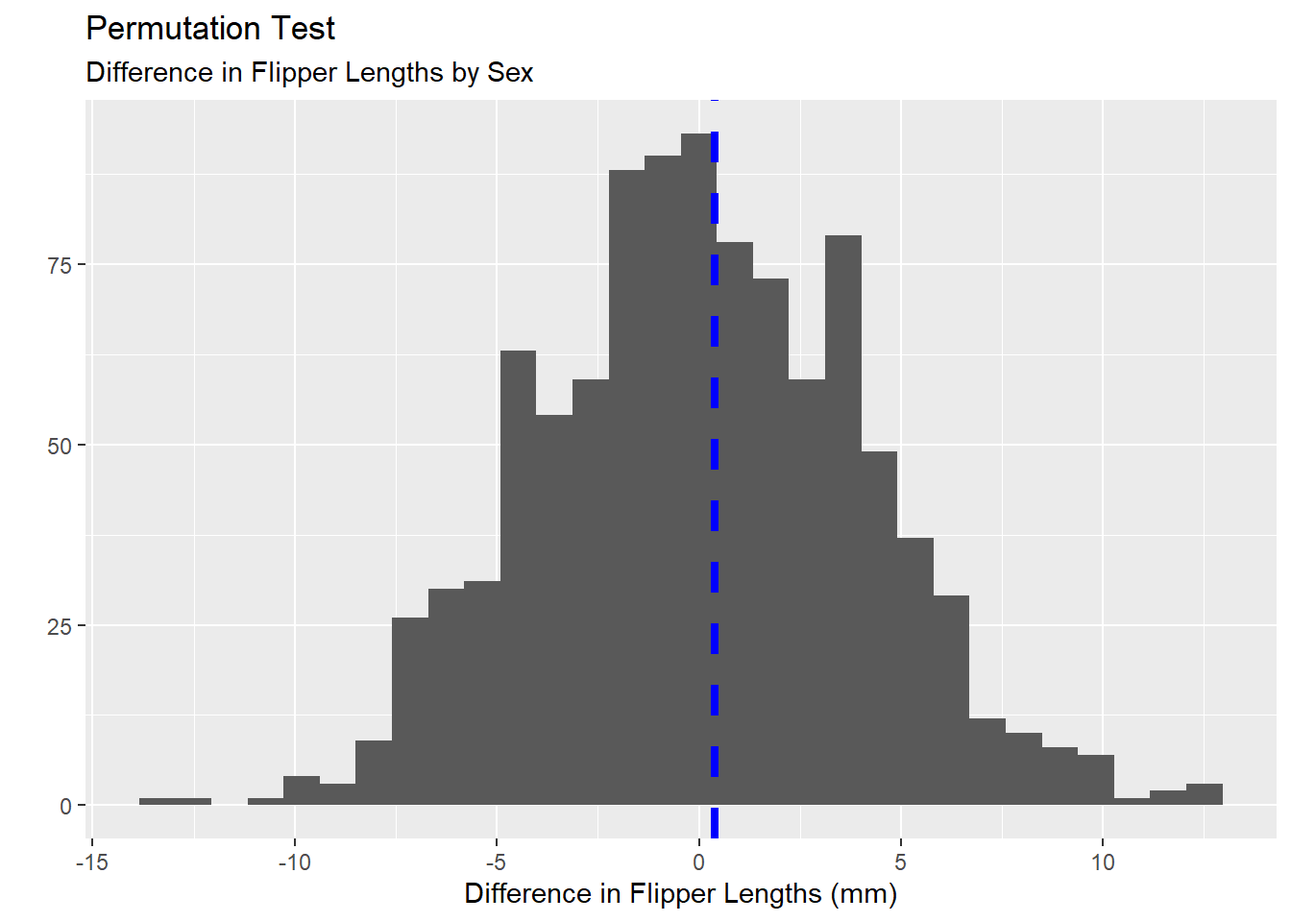
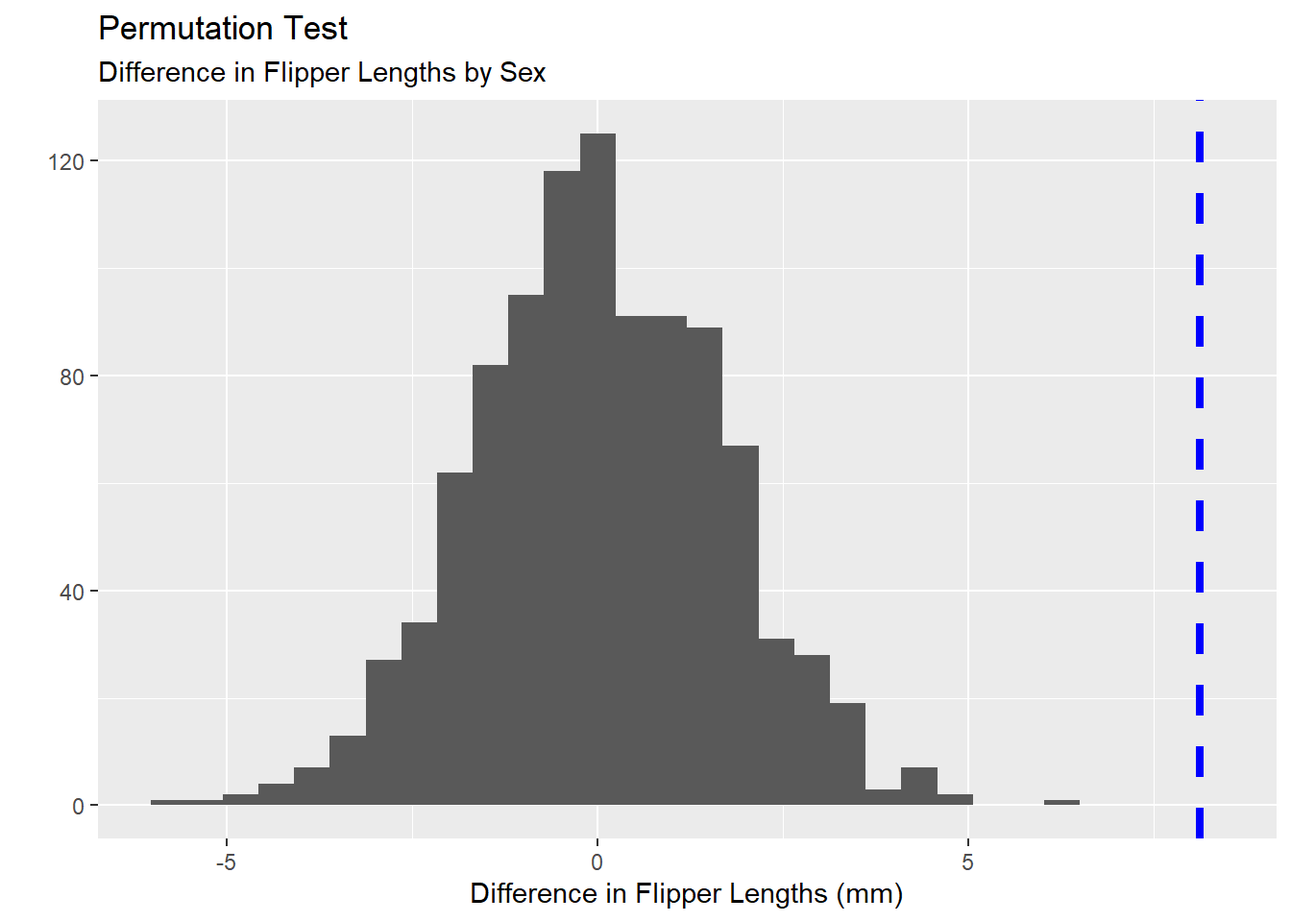
Updated the inference notebook to use penguins_samp2

diff --git a/ClassicalInferenceAndSimulationBasedInference.html b/ClassicalInferenceAndSimulationBasedInference.html
@@ -133,7 +133,7 @@ code span.wa { color: #60a0b0; font-weight: bold; font-style: italic; } /* Warni
 
 </header>
 
-<p><strong>Objectives:</strong></p>
+<p><strong>Objectives:</strong> In this notebook we’ll be reminded of classical inference techniques built on the Central Limit Theorem. We’ll also address bootstrapping methods and how statistical inference can still be made from data even if we refuse to assume the Central Limit Theorem. We’ll attempt some statistical inferences using these bootstrapping techniques and our <code>penguins_samp2</code> data.</p>
 <section id="classical-statistics-versus-simulation-based-methods" class="level2">
 <h2 class="anchored" data-anchor-id="classical-statistics-versus-simulation-based-methods">Classical Statistics versus Simulation-Based Methods</h2>
 <p>In your introductory statistics courses, you spent lots of time using confidence intervals and hypothesis tests to make or test claims about populations by using sample data. Those are really powerful tools, but you saw them in a fairly restrictive environment – that entire course assumed that the underlying sampling distribution was nearly normal. While this is often the case, it isn’t always a reasonable assumption – particularly in the case of small sample sizes or extremely skewed metrics. We’ll recap those classical approaches and introduce simulation-based methods in this notebook.</p>
@@ -141,8 +141,8 @@ code span.wa { color: #60a0b0; font-weight: bold; font-style: italic; } /* Warni
 <h3 class="anchored" data-anchor-id="classical-approaches-a-reminder">Classical Approaches: A Reminder</h3>
 <p>In Classical Statistics, we assume the Central Limit Theorem. That Theorem guarantees that the sampling distribution (the distribution of summary statistics for <em>all</em> samples of our size from the population) is approximately Normal. This allows us to</p>
 <ul>
-<li>Use critical values from a <em>Normal</em> or <em>t</em>-distribution when building confidence intervals. As a reminder, confidence intervals are constructed using the following formula: <span class="math display">\[\left(\text{point\_estimate}\right) \pm \left(\text{critical\_value}\right)\left(\text{standard\_error}\right)\]</span></li>
-<li>Compute <span class="math inline">\(p\)</span>-values using a test statistic and then computing a <span class="math inline">\(p\)</span>-value using a <em>Normal</em> or <em>t</em>-distribution. As a reminder, our test statistics were computed as follows: <span class="math display">\[\text{test\_statistic} = \frac{\left(\text{point\_estimate}\right) - \left(\text{null\_value}\right)}{\text{standard\_error}}\]</span></li>
+<li>Use critical values from a <em>Normal</em> or <em>t</em>-distribution when building confidence intervals. As a reminder, confidence intervals are constructed using the following formula: <span class="math display">\[\left(\text{point_estimate}\right) \pm \left(\text{critical_value}\right)\left(\text{standard_error}\right)\]</span></li>
+<li>Compute <span class="math inline">\(p\)</span>-values using a test statistic and then computing a <span class="math inline">\(p\)</span>-value using a <em>Normal</em> or <em>t</em>-distribution. As a reminder, our test statistics were computed as follows: <span class="math display">\[\text{test_statistic} = \frac{\left(\text{point_estimate}\right) - \left(\text{null_value}\right)}{\text{standard_error}}\]</span></li>
 </ul>
 <p>While the Central Limit Theorem often applies, we can’t always assume it. Simulation techniques are helpful in those situations.</p>
 </section>
@@ -151,13 +151,13 @@ code span.wa { color: #60a0b0; font-weight: bold; font-style: italic; } /* Warni
 <p>If we are in a scenario where we are unable to assume that our underlying sampling distribution is nearly normal, then we’ll need another technique. Essentially, by refusing to assume that the sampling distribution is nearly normal, we concede that any <span class="math inline">\(p\)</span>-value we find, or confidence intervals we build will be untrustworthy. As long as we are willing to assume that our sample data is <em>random</em> and <em>representative</em> of the population, then we can use simulation techniques to find <span class="math inline">\(p\)</span>-values and generate confidence intervals.</p>
 <section id="bootstrapping" class="level4">
 <h4 class="anchored" data-anchor-id="bootstrapping">Bootstrapping</h4>
-<p>As long as we are comfortable assuming that our sample data is <em>random</em> and <em>representative</em> of our population, then we can treat our sample data as if it were a population. We can then redraw samples of the same size out of it. We can do this over and over again, computing our sample statistic for each redrawn (<em>bootstrapped</em>) sample. Let’s see that in action below, using our original <code>penguins_samp1</code> data.</p>
+<p>As long as we are comfortable assuming that our sample data is <em>random</em> and <em>representative</em> of our population, then we can treat our sample data as if it were a population. We can then redraw samples of the same size out of it. We can do this over and over again, computing our sample statistic for each redrawn (<em>bootstrapped</em>) sample. Let’s see that in action below, using our <code>penguins_samp2</code> data.</p>
 <div class="cell">
 <div class="sourceCode cell-code" id="cb1"><pre class="sourceCode r code-with-copy"><code class="sourceCode r"><span id="cb1-1"><a href="#cb1-1" aria-hidden="true" tabindex="-1"></a>n_samps <span class="ot">&lt;-</span> <span class="dv">1000</span></span>
 <span id="cb1-2"><a href="#cb1-2" aria-hidden="true" tabindex="-1"></a>sample_means <span class="ot">&lt;-</span> <span class="fu">rep</span>(<span class="cn">NA</span>, n_samps)</span>
 <span id="cb1-3"><a href="#cb1-3" aria-hidden="true" tabindex="-1"></a><span class="cf">for</span>(i <span class="cf">in</span> <span class="dv">1</span><span class="sc">:</span>n_samps){</span>
-<span id="cb1-4"><a href="#cb1-4" aria-hidden="true" tabindex="-1"></a>  my_samp <span class="ot">&lt;-</span> penguins_samp1 <span class="sc">%&gt;%</span></span>
-<span id="cb1-5"><a href="#cb1-5" aria-hidden="true" tabindex="-1"></a>    <span class="fu">sample_n</span>(<span class="fu">nrow</span>(penguins_samp1), <span class="at">replace =</span> <span class="cn">TRUE</span>)</span>
+<span id="cb1-4"><a href="#cb1-4" aria-hidden="true" tabindex="-1"></a>  my_samp <span class="ot">&lt;-</span> penguins_samp2 <span class="sc">%&gt;%</span></span>
+<span id="cb1-5"><a href="#cb1-5" aria-hidden="true" tabindex="-1"></a>    <span class="fu">sample_n</span>(<span class="fu">nrow</span>(penguins_samp2), <span class="at">replace =</span> <span class="cn">TRUE</span>)</span>
 <span id="cb1-6"><a href="#cb1-6" aria-hidden="true" tabindex="-1"></a>  sample_means[i] <span class="ot">&lt;-</span> my_samp <span class="sc">%&gt;%</span></span>
 <span id="cb1-7"><a href="#cb1-7" aria-hidden="true" tabindex="-1"></a>    <span class="fu">summarize</span>(<span class="at">mean =</span> <span class="fu">mean</span>(flipper_length_mm, <span class="at">na.rm =</span> <span class="cn">TRUE</span>)) <span class="sc">%&gt;%</span></span>
 <span id="cb1-8"><a href="#cb1-8" aria-hidden="true" tabindex="-1"></a>    <span class="fu">pull</span>(mean)</span>
@@ -183,10 +183,10 @@ code span.wa { color: #60a0b0; font-weight: bold; font-style: italic; } /* Warni
 <div class="sourceCode cell-code" id="cb3"><pre class="sourceCode r code-with-copy"><code class="sourceCode r"><span id="cb3-1"><a href="#cb3-1" aria-hidden="true" tabindex="-1"></a><span class="fu">quantile</span>(sample_means, <span class="fu">c</span>(<span class="fl">0.025</span>, <span class="fl">0.975</span>))</span></code><button title="Copy to Clipboard" class="code-copy-button"><i class="bi"></i></button></pre></div>
 <div class="cell-output cell-output-stdout">
 <pre><code>    2.5%    97.5% 
-198.9540 206.6375 </code></pre>
+199.1294 202.2787 </code></pre>
 </div>
 </div>
-<p>We can now claim, with <span class="math inline">\(95\)</span>% confidence, that the population mean flipper length for penguins falls somewhere between 198.95mm and 206.64mm. Visually, what we’ve done appears below – with the confidence interval bounds represented by the two vertical dashed lines.</p>
+<p>We can now claim, with <span class="math inline">\(95\)</span>% confidence, that the population mean flipper length for penguins falls somewhere between 199.13mm and 202.28mm. Visually, what we’ve done appears below – with the confidence interval bounds represented by the two vertical dashed lines.</p>
 <div class="cell">
 <div class="sourceCode cell-code" id="cb5"><pre class="sourceCode r code-with-copy"><code class="sourceCode r"><span id="cb5-1"><a href="#cb5-1" aria-hidden="true" tabindex="-1"></a><span class="fu">ggplot</span>() <span class="sc">+</span></span>
 <span id="cb5-2"><a href="#cb5-2" aria-hidden="true" tabindex="-1"></a>  <span class="fu">geom_histogram</span>(<span class="fu">aes</span>(<span class="at">x =</span> sample_means)) <span class="sc">+</span></span>
@@ -214,17 +214,17 @@ code span.wa { color: #60a0b0; font-weight: bold; font-style: italic; } /* Warni
 <section id="hypothesis-tests-for-single-group-parameters" class="level4">
 <h4 class="anchored" data-anchor-id="hypothesis-tests-for-single-group-parameters">Hypothesis Tests for Single Group Parameters</h4>
 <p>We can also use this Bootstrapping procedure as an alternative to the classical null hypothesis testing framework. Here, we’ll be testing whether our sample was drawn from a population having a particular assumed/null distribution by Bootstrapping samples and sample statistics from that assumed population distribution and comparing our sample statistic to the distribution of bootstrapped sample statistics.</p>
-<p>For example, perhaps we are wondering whether there is evidence to suggest that our penguin flipper lengths were pulled from a normal distribution whose mean is <span class="math inline">\(200\)</span>mm and whose standard deviation is <span class="math inline">\(7\)</span>mm. Let’s draw <span class="math inline">\(1000\)</span> random samples of flipper lengths from this assumed population distribution, build the sampling distribution of mean flipper lengths, and then compare our sample to the Bootstrapped sampling distribution.</p>
+<p>For example, perhaps we are wondering whether there is evidence to suggest that our penguin flipper lengths were pulled from a normal distribution whose mean is <span class="math inline">\(200\)</span>mm and whose standard deviation is <span class="math inline">\(5\)</span>mm. Let’s draw <span class="math inline">\(1000\)</span> random samples of flipper lengths from this assumed population distribution, build the sampling distribution of mean flipper lengths, and then compare our sample to the Bootstrapped sampling distribution.</p>
 <div class="cell">
 <div class="sourceCode cell-code" id="cb7"><pre class="sourceCode r code-with-copy"><code class="sourceCode r"><span id="cb7-1"><a href="#cb7-1" aria-hidden="true" tabindex="-1"></a>num_samps <span class="ot">&lt;-</span> <span class="dv">1000</span></span>
 <span id="cb7-2"><a href="#cb7-2" aria-hidden="true" tabindex="-1"></a>bootstrapped_mean_lengths <span class="ot">&lt;-</span> <span class="fu">rep</span>(<span class="cn">NA</span>, num_samps)</span>
 <span id="cb7-3"><a href="#cb7-3" aria-hidden="true" tabindex="-1"></a></span>
 <span id="cb7-4"><a href="#cb7-4" aria-hidden="true" tabindex="-1"></a><span class="cf">for</span>(i <span class="cf">in</span> <span class="dv">1</span><span class="sc">:</span>num_samps){</span>
-<span id="cb7-5"><a href="#cb7-5" aria-hidden="true" tabindex="-1"></a>  my_samp <span class="ot">&lt;-</span> <span class="fu">rnorm</span>(<span class="fu">nrow</span>(penguins_samp1), <span class="dv">200</span>, <span class="dv">7</span>)</span>
+<span id="cb7-5"><a href="#cb7-5" aria-hidden="true" tabindex="-1"></a>  my_samp <span class="ot">&lt;-</span> <span class="fu">rnorm</span>(<span class="fu">nrow</span>(penguins_samp2), <span class="dv">200</span>, <span class="dv">5</span>)</span>
 <span id="cb7-6"><a href="#cb7-6" aria-hidden="true" tabindex="-1"></a>  bootstrapped_mean_lengths[i] <span class="ot">&lt;-</span> <span class="fu">mean</span>(my_samp)</span>
 <span id="cb7-7"><a href="#cb7-7" aria-hidden="true" tabindex="-1"></a>  }</span>
 <span id="cb7-8"><a href="#cb7-8" aria-hidden="true" tabindex="-1"></a></span>
-<span id="cb7-9"><a href="#cb7-9" aria-hidden="true" tabindex="-1"></a>my_mean_flipper_length <span class="ot">&lt;-</span> penguins_samp1 <span class="sc">%&gt;%</span></span>
+<span id="cb7-9"><a href="#cb7-9" aria-hidden="true" tabindex="-1"></a>my_mean_flipper_length <span class="ot">&lt;-</span> penguins_samp2 <span class="sc">%&gt;%</span></span>
 <span id="cb7-10"><a href="#cb7-10" aria-hidden="true" tabindex="-1"></a>  <span class="fu">summarize</span>(<span class="at">mean =</span> <span class="fu">mean</span>(flipper_length_mm, <span class="at">na.rm =</span> <span class="cn">TRUE</span>)) <span class="sc">%&gt;%</span></span>
 <span id="cb7-11"><a href="#cb7-11" aria-hidden="true" tabindex="-1"></a>  <span class="fu">pull</span>(mean)</span>
 <span id="cb7-12"><a href="#cb7-12" aria-hidden="true" tabindex="-1"></a></span>
@@ -245,35 +245,35 @@ code span.wa { color: #60a0b0; font-weight: bold; font-style: italic; } /* Warni
 <p><img src="ClassicalInferenceAndSimulationBasedInference_files/figure-html/unnamed-chunk-4-1.png" class="img-fluid" width="672"></p>
 </div>
 </div>
-<p>Visually, we see that our sample is an outlier in the sampling distribution pulled from a population which is <em>normally distributed with mean <span class="math inline">\(200\)</span> and standard deviation <span class="math inline">\(7\)</span></em>. We can obtain a <span class="math inline">\(p\)</span>-value for this Bootstrapped hypothesis test by counting the number of bootstrapped samples with sample statistics at least as extreme as ours and then dividing by the total number of Bootstrapped samples we constructed. As a reminder, if we are simply testing for a difference, we must multiply our <span class="math inline">\(p\)</span>-value by <span class="math inline">\(2\)</span> to account for the idea that a difference can be <em>greater</em> or <em>less</em> than the assumed null value. Let’s see that below:</p>
+<p>Visually, we see that our sample is an outlier in the sampling distribution pulled from a population which is <em>normally distributed with mean <span class="math inline">\(200\)</span> and standard deviation <span class="math inline">\(5\)</span></em>. We can obtain a <span class="math inline">\(p\)</span>-value for this Bootstrapped hypothesis test by counting the number of bootstrapped samples with sample statistics at least as extreme as ours and then dividing by the total number of Bootstrapped samples we constructed. As a reminder, if we are simply testing for a difference, we must multiply our <span class="math inline">\(p\)</span>-value by <span class="math inline">\(2\)</span> to account for the idea that a difference can be <em>greater</em> or <em>less</em> than the assumed null value. Let’s see that below:</p>
 <div class="cell">
 <div class="sourceCode cell-code" id="cb9"><pre class="sourceCode r code-with-copy"><code class="sourceCode r"><span id="cb9-1"><a href="#cb9-1" aria-hidden="true" tabindex="-1"></a>num_extreme <span class="ot">&lt;-</span> <span class="fu">sum</span>(bootstrapped_mean_lengths <span class="sc">&gt;=</span> my_mean_flipper_length)</span>
 <span id="cb9-2"><a href="#cb9-2" aria-hidden="true" tabindex="-1"></a></span>
 <span id="cb9-3"><a href="#cb9-3" aria-hidden="true" tabindex="-1"></a>bootstrapped_p_value <span class="ot">&lt;-</span> <span class="dv">2</span><span class="sc">*</span>(num_extreme <span class="sc">/</span> num_samps)</span>
 <span id="cb9-4"><a href="#cb9-4" aria-hidden="true" tabindex="-1"></a>bootstrapped_p_value</span></code><button title="Copy to Clipboard" class="code-copy-button"><i class="bi"></i></button></pre></div>
 <div class="cell-output cell-output-stdout">
-<pre><code>[1] 0.01</code></pre>
+<pre><code>[1] 0.026</code></pre>
 </div>
 </div>
-<p>Since we’ve obtained a Bootstrapped <span class="math inline">\(p\)</span>-value below <span class="math inline">\(0.05\)</span>, we have statistically significant evidence to suggest that our penguin flipper lengths do not come from a normal distribution with mean <span class="math inline">\(200\)</span>mm and standard deviation <span class="math inline">\(7\)</span>mm. Three things are possible here:</p>
+<p>Since we’ve obtained a Bootstrapped <span class="math inline">\(p\)</span>-value below <span class="math inline">\(0.05\)</span>, we have statistically significant evidence to suggest that our penguin flipper lengths do not come from a normal distribution with mean <span class="math inline">\(200\)</span>mm and standard deviation <span class="math inline">\(5\)</span>mm. Three things are possible here:</p>
 <ul>
 <li>The population mean is truly greater than <span class="math inline">\(200\)</span>mm</li>
-<li>The population standard deviation is truly greater than <span class="math inline">\(7mm\)</span></li>
+<li>The population standard deviation is truly greater than <span class="math inline">\(5mm\)</span></li>
 <li>The overall population distribution is not a normal distribution at all</li>
 </ul>
 </section>
 <section id="permutation-tests-for-group-comparisons" class="level4">
 <h4 class="anchored" data-anchor-id="permutation-tests-for-group-comparisons">Permutation Tests for Group Comparisons</h4>
-<p>We can also use a Bootstrapping procedure for conducting two-sample comparison hypothesis tests. Perhaps we are wondering whether there is a difference in the mean flipper lengths for male and female penguins. We know that our sample <code>penguins_samp1</code> has the correct/meaningful assignment of each penguin’s <code>sex</code>. This results in a group of male and female penguins whose average flipper length is a quantity we can compute. Once we have those average flipper lengths, we can subtract them to find the difference in mean flipper lengths between male and female penguins in our sample.</p>
+<p>We can also use a Bootstrapping procedure for conducting two-sample comparison hypothesis tests. Perhaps we are wondering whether there is a difference in the mean flipper lengths for male and female penguins. We know that our sample <code>penguins_samp2</code> has the correct/meaningful assignment of each penguin’s <code>sex</code>. This results in a group of male and female penguins whose average flipper length is a quantity we can compute. Once we have those average flipper lengths, we can subtract them to find the difference in mean flipper lengths between male and female penguins in our sample.</p>
 <p>Next, we can permute (shuffle) the values in the <code>sex</code> column, creating a new grouping of the penguins which is not actually related to the <code>sex</code> of the penguins at all. Similarly, we can compute the average flipper length within each group and subtract those averages to find the difference in mean flipper length between the two groups. We can do this lots of times, obtaining lots of differences in average flipper lengths for which the <code>sex</code> variable is meaningless. Then, we can see whether our sample, where <code>sex</code> is a meaningful variable, is an outlier in this distribution of bootstrapped results.</p>
 <p>Let’s try it!</p>
 <div class="cell">
-<div class="sourceCode cell-code" id="cb11"><pre class="sourceCode r code-with-copy"><code class="sourceCode r"><span id="cb11-1"><a href="#cb11-1" aria-hidden="true" tabindex="-1"></a>my_female_avg_flipper_length <span class="ot">&lt;-</span> penguins_samp1 <span class="sc">%&gt;%</span></span>
+<div class="sourceCode cell-code" id="cb11"><pre class="sourceCode r code-with-copy"><code class="sourceCode r"><span id="cb11-1"><a href="#cb11-1" aria-hidden="true" tabindex="-1"></a>my_female_avg_flipper_length <span class="ot">&lt;-</span> penguins_samp2 <span class="sc">%&gt;%</span></span>
 <span id="cb11-2"><a href="#cb11-2" aria-hidden="true" tabindex="-1"></a>  <span class="fu">filter</span>(sex <span class="sc">==</span> <span class="st">"female"</span>) <span class="sc">%&gt;%</span></span>
 <span id="cb11-3"><a href="#cb11-3" aria-hidden="true" tabindex="-1"></a>  <span class="fu">summarize</span>(<span class="at">mean =</span> <span class="fu">mean</span>(flipper_length_mm, <span class="at">na.rm =</span> <span class="cn">TRUE</span>)) <span class="sc">%&gt;%</span></span>
 <span id="cb11-4"><a href="#cb11-4" aria-hidden="true" tabindex="-1"></a>  <span class="fu">pull</span>(mean)</span>
 <span id="cb11-5"><a href="#cb11-5" aria-hidden="true" tabindex="-1"></a></span>
-<span id="cb11-6"><a href="#cb11-6" aria-hidden="true" tabindex="-1"></a>my_male_avg_flipper_length <span class="ot">&lt;-</span> penguins_samp1 <span class="sc">%&gt;%</span></span>
+<span id="cb11-6"><a href="#cb11-6" aria-hidden="true" tabindex="-1"></a>my_male_avg_flipper_length <span class="ot">&lt;-</span> penguins_samp2 <span class="sc">%&gt;%</span></span>
 <span id="cb11-7"><a href="#cb11-7" aria-hidden="true" tabindex="-1"></a>  <span class="fu">filter</span>(sex <span class="sc">==</span> <span class="st">"male"</span>) <span class="sc">%&gt;%</span></span>
 <span id="cb11-8"><a href="#cb11-8" aria-hidden="true" tabindex="-1"></a>  <span class="fu">summarize</span>(<span class="at">mean =</span> <span class="fu">mean</span>(flipper_length_mm, <span class="at">na.rm =</span> <span class="cn">TRUE</span>)) <span class="sc">%&gt;%</span></span>
 <span id="cb11-9"><a href="#cb11-9" aria-hidden="true" tabindex="-1"></a>  <span class="fu">pull</span>(mean)</span>
@@ -285,8 +285,8 @@ code span.wa { color: #60a0b0; font-weight: bold; font-style: italic; } /* Warni
 <span id="cb11-15"><a href="#cb11-15" aria-hidden="true" tabindex="-1"></a>independent_differences <span class="ot">&lt;-</span> <span class="fu">rep</span>(<span class="cn">NA</span>, num_samps)</span>
 <span id="cb11-16"><a href="#cb11-16" aria-hidden="true" tabindex="-1"></a></span>
 <span id="cb11-17"><a href="#cb11-17" aria-hidden="true" tabindex="-1"></a><span class="cf">for</span>(i <span class="cf">in</span> <span class="dv">1</span><span class="sc">:</span>num_samps){</span>
-<span id="cb11-18"><a href="#cb11-18" aria-hidden="true" tabindex="-1"></a>  penguins_reassigned <span class="ot">&lt;-</span> penguins_samp1 <span class="sc">%&gt;%</span></span>
-<span id="cb11-19"><a href="#cb11-19" aria-hidden="true" tabindex="-1"></a>    <span class="fu">mutate</span>(<span class="at">sex =</span> <span class="fu">sample</span>(sex, <span class="fu">nrow</span>(penguins_samp1), <span class="at">replace =</span> <span class="cn">FALSE</span>))</span>
+<span id="cb11-18"><a href="#cb11-18" aria-hidden="true" tabindex="-1"></a>  penguins_reassigned <span class="ot">&lt;-</span> penguins_samp2 <span class="sc">%&gt;%</span></span>
+<span id="cb11-19"><a href="#cb11-19" aria-hidden="true" tabindex="-1"></a>    <span class="fu">mutate</span>(<span class="at">sex =</span> <span class="fu">sample</span>(sex, <span class="fu">nrow</span>(penguins_samp2), <span class="at">replace =</span> <span class="cn">FALSE</span>))</span>
 <span id="cb11-20"><a href="#cb11-20" aria-hidden="true" tabindex="-1"></a>  </span>
 <span id="cb11-21"><a href="#cb11-21" aria-hidden="true" tabindex="-1"></a>  fem_avg <span class="ot">&lt;-</span> penguins_reassigned <span class="sc">%&gt;%</span></span>
 <span id="cb11-22"><a href="#cb11-22" aria-hidden="true" tabindex="-1"></a>    <span class="fu">filter</span>(sex <span class="sc">==</span> <span class="st">"female"</span>) <span class="sc">%&gt;%</span></span>
@@ -321,10 +321,10 @@ code span.wa { color: #60a0b0; font-weight: bold; font-style: italic; } /* Warni
 <span id="cb13-2"><a href="#cb13-2" aria-hidden="true" tabindex="-1"></a>bootstrapped_p_value <span class="ot">&lt;-</span> <span class="dv">2</span><span class="sc">*</span>(extreme_samples<span class="sc">/</span>num_samps)</span>
 <span id="cb13-3"><a href="#cb13-3" aria-hidden="true" tabindex="-1"></a>bootstrapped_p_value</span></code><button title="Copy to Clipboard" class="code-copy-button"><i class="bi"></i></button></pre></div>
 <div class="cell-output cell-output-stdout">
-<pre><code>[1] 0.908</code></pre>
+<pre><code>[1] 0</code></pre>
 </div>
 </div>
-<p>The Bootstrapped <span class="math inline">\(p\)</span>-value above indicates that our difference in average flipper lengths, where <code>sex</code> was a meaningful variable was not an outlier in the distribution of differences where <code>sex</code> was a truly meaningless variable. That is, there is no evidence here to suggest a difference in mean flipper lengths across the two sexes of penguin.</p>
+<p>The Bootstrapped <span class="math inline">\(p\)</span>-value above indicates that our difference in average flipper lengths, where <code>sex</code> was a meaningful variable was an <em>extreme</em> outlier in the distribution of differences where <code>sex</code> was a truly meaningless variable. That is, there is evidence here to suggest a difference in mean flipper lengths across the two sexes of penguin.</p>
 <hr>
 </section>
 </section>
@@ -337,7 +337,7 @@ code span.wa { color: #60a0b0; font-weight: bold; font-style: italic; } /* Warni
 <li>Decide how you can adjust the code above to test your question using bootstrapping methods.</li>
 <li>Conduct your analysis. Does the bootstrapping analysis support your hypothesis?</li>
 <li>Be sure your analysis is well documented and described in your notebook. Envision your notebook as your methodology that you’re sharing with the scientific community.</li>
-<li>Publish your completed notebook to GitHub.</li>
+<li>Use the <code>Pull -&gt; Commit -&gt; Push</code> workflow to publish your completed notebook to GitHub.</li>
 </ul>
 </section>
 

diff --git a/ClassicalInferenceAndSimulationBasedInference.md b/ClassicalInferenceAndSimulationBasedInference.md
@@ -12,7 +12,7 @@ execute:
 
 
 
-**Objectives:** 
+**Objectives:** In this notebook we'll be reminded of classical inference techniques built on the Central Limit Theorem. We'll also address bootstrapping methods and how statistical inference can still be made from data even if we refuse to assume the Central Limit Theorem. We'll attempt some statistical inferences using these bootstrapping techniques and our `penguins_samp2` data.
 
 ## Classical Statistics versus Simulation-Based Methods
 
@@ -23,9 +23,9 @@ In your introductory statistics courses, you spent lots of time using confidence
 In Classical Statistics, we assume the Central Limit Theorem. That Theorem guarantees that the sampling distribution (the distribution of summary statistics for *all* samples of our size from the population) is approximately Normal. This allows us to
 
 + Use critical values from a *Normal* or *t*-distribution when building confidence intervals. As a reminder, confidence intervals are constructed using the following formula:
-$$\left(\text{point\_estimate}\right) \pm \left(\text{critical\_value}\right)\left(\text{standard\_error}\right)$$
+$$\left(\text{point_estimate}\right) \pm \left(\text{critical_value}\right)\left(\text{standard_error}\right)$$
 + Compute $p$-values using a test statistic and then computing a $p$-value using a *Normal* or *t*-distribution. As a reminder, our test statistics were computed as follows:
-$$\text{test\_statistic} = \frac{\left(\text{point\_estimate}\right) - \left(\text{null\_value}\right)}{\text{standard\_error}}$$
+$$\text{test_statistic} = \frac{\left(\text{point_estimate}\right) - \left(\text{null_value}\right)}{\text{standard_error}}$$
 
 While the Central Limit Theorem often applies, we can't always assume it. Simulation techniques are helpful in those situations.
 
@@ -35,7 +35,7 @@ If we are in a scenario where we are unable to assume that our underlying sampli
 
 #### Bootstrapping
 
-As long as we are comfortable assuming that our sample data is *random* and *representative* of our population, then we can treat our sample data as if it were a population. We can then redraw samples of the same size out of it. We can do this over and over again, computing our sample statistic for each redrawn (*bootstrapped*) sample. Let's see that in action below, using our original `penguins_samp1` data.
+As long as we are comfortable assuming that our sample data is *random* and *representative* of our population, then we can treat our sample data as if it were a population. We can then redraw samples of the same size out of it. We can do this over and over again, computing our sample statistic for each redrawn (*bootstrapped*) sample. Let's see that in action below, using our `penguins_samp2` data.
 
 
 ::: {.cell}
@@ -44,8 +44,8 @@ As long as we are comfortable assuming that our sample data is *random* and *rep
 n_samps <- 1000
 sample_means <- rep(NA, n_samps)
 for(i in 1:n_samps){
-  my_samp <- penguins_samp1 %>%
-    sample_n(nrow(penguins_samp1), replace = TRUE)
+  my_samp <- penguins_samp2 %>%
+    sample_n(nrow(penguins_samp2), replace = TRUE)
   sample_means[i] <- my_samp %>%
     summarize(mean = mean(flipper_length_mm, na.rm = TRUE)) %>%
     pull(mean)
@@ -86,13 +86,13 @@ quantile(sample_means, c(0.025, 0.975))
 ::: {.cell-output .cell-output-stdout}
 ```
     2.5%    97.5% 
-198.9540 206.6375 
+199.1294 202.2787 
 ```
 :::
 :::
 
 
-We can now claim, with $95$% confidence, that the population mean flipper length for penguins falls somewhere between 198.95mm and 206.64mm. Visually, what we've done appears below -- with the confidence interval bounds represented by the two vertical dashed lines.
+We can now claim, with $95$% confidence, that the population mean flipper length for penguins falls somewhere between 199.13mm and 202.28mm. Visually, what we've done appears below -- with the confidence interval bounds represented by the two vertical dashed lines.
 
 
 ::: {.cell}
@@ -131,7 +131,7 @@ Note that all of your confidence intervals from your introductory statistics wor
 
 We can also use this Bootstrapping procedure as an alternative to the classical null hypothesis testing framework. Here, we'll be testing whether our sample was drawn from a population having a particular assumed/null distribution by Bootstrapping samples and sample statistics from that assumed population distribution and comparing our sample statistic to the distribution of bootstrapped sample statistics. 
 
-For example, perhaps we are wondering whether there is evidence to suggest that our penguin flipper lengths were pulled from a normal distribution whose mean is $200$mm and whose standard deviation is $7$mm. Let's draw $1000$ random samples of flipper lengths from this assumed population distribution, build the sampling distribution of mean flipper lengths, and then compare our sample to the Bootstrapped sampling distribution.
+For example, perhaps we are wondering whether there is evidence to suggest that our penguin flipper lengths were pulled from a normal distribution whose mean is $200$mm and whose standard deviation is $5$mm. Let's draw $1000$ random samples of flipper lengths from this assumed population distribution, build the sampling distribution of mean flipper lengths, and then compare our sample to the Bootstrapped sampling distribution.
 
 
 ::: {.cell}
@@ -141,11 +141,11 @@ num_samps <- 1000
 bootstrapped_mean_lengths <- rep(NA, num_samps)
 
 for(i in 1:num_samps){
-  my_samp <- rnorm(nrow(penguins_samp1), 200, 7)
+  my_samp <- rnorm(nrow(penguins_samp2), 200, 5)
   bootstrapped_mean_lengths[i] <- mean(my_samp)
   }
 
-my_mean_flipper_length <- penguins_samp1 %>%
+my_mean_flipper_length <- penguins_samp2 %>%
   summarize(mean = mean(flipper_length_mm, na.rm = TRUE)) %>%
   pull(mean)
 
@@ -173,7 +173,7 @@ ggplot() +
 :::
 
 
-Visually, we see that our sample is an outlier in the sampling distribution pulled from a population which is *normally distributed with mean $200$ and standard deviation $7$*. We can obtain a $p$-value for this Bootstrapped hypothesis test by counting the number of bootstrapped samples with sample statistics at least as extreme as ours and then dividing by the total number of Bootstrapped samples we constructed. As a reminder, if we are simply testing for a difference, we must multiply our $p$-value by $2$ to account for the idea that a difference can be *greater* or *less* than the assumed null value. Let's see that below:
+Visually, we see that our sample is an outlier in the sampling distribution pulled from a population which is *normally distributed with mean $200$ and standard deviation $5$*. We can obtain a $p$-value for this Bootstrapped hypothesis test by counting the number of bootstrapped samples with sample statistics at least as extreme as ours and then dividing by the total number of Bootstrapped samples we constructed. As a reminder, if we are simply testing for a difference, we must multiply our $p$-value by $2$ to account for the idea that a difference can be *greater* or *less* than the assumed null value. Let's see that below:
 
 
 ::: {.cell}
@@ -187,21 +187,21 @@ bootstrapped_p_value
 
 ::: {.cell-output .cell-output-stdout}
 ```
-[1] 0.01
+[1] 0.026
 ```
 :::
 :::
 
 
-Since we've obtained a Bootstrapped $p$-value below $0.05$, we have statistically significant evidence to suggest that our penguin flipper lengths do not come from a normal distribution with mean $200$mm and standard deviation $7$mm. Three things are possible here:
+Since we've obtained a Bootstrapped $p$-value below $0.05$, we have statistically significant evidence to suggest that our penguin flipper lengths do not come from a normal distribution with mean $200$mm and standard deviation $5$mm. Three things are possible here:
 
 + The population mean is truly greater than $200$mm
-+ The population standard deviation is truly greater than $7mm$
++ The population standard deviation is truly greater than $5mm$
 + The overall population distribution is not a normal distribution at all
 
 #### Permutation Tests for Group Comparisons
 
-We can also use a Bootstrapping procedure for conducting two-sample comparison hypothesis tests. Perhaps we are wondering whether there is a difference in the mean flipper lengths for male and female penguins. We know that our sample `penguins_samp1` has the correct/meaningful assignment of each penguin's `sex`. This results in a group of male and female penguins whose average flipper length is a quantity we can compute. Once we have those average flipper lengths, we can subtract them to find the difference in mean flipper lengths between male and female penguins in our sample.
+We can also use a Bootstrapping procedure for conducting two-sample comparison hypothesis tests. Perhaps we are wondering whether there is a difference in the mean flipper lengths for male and female penguins. We know that our sample `penguins_samp2` has the correct/meaningful assignment of each penguin's `sex`. This results in a group of male and female penguins whose average flipper length is a quantity we can compute. Once we have those average flipper lengths, we can subtract them to find the difference in mean flipper lengths between male and female penguins in our sample.
 
 Next, we can permute (shuffle) the values in the `sex` column, creating a new grouping of the penguins which is not actually related to the `sex` of the penguins at all. Similarly, we can compute the average flipper length within each group and subtract those averages to find the difference in mean flipper length between the two groups. We can do this lots of times, obtaining lots of differences in average flipper lengths for which the `sex` variable is meaningless. Then, we can see whether our sample, where `sex` is a meaningful variable, is an outlier in this distribution of bootstrapped results.
 
@@ -211,12 +211,12 @@ Let's try it!
 ::: {.cell}
 
 ```{.r .cell-code}
-my_female_avg_flipper_length <- penguins_samp1 %>%
+my_female_avg_flipper_length <- penguins_samp2 %>%
   filter(sex == "female") %>%
   summarize(mean = mean(flipper_length_mm, na.rm = TRUE)) %>%
   pull(mean)
 
-my_male_avg_flipper_length <- penguins_samp1 %>%
+my_male_avg_flipper_length <- penguins_samp2 %>%
   filter(sex == "male") %>%
   summarize(mean = mean(flipper_length_mm, na.rm = TRUE)) %>%
   pull(mean)
@@ -228,8 +228,8 @@ num_samps <- 1000
 independent_differences <- rep(NA, num_samps)
 
 for(i in 1:num_samps){
-  penguins_reassigned <- penguins_samp1 %>%
-    mutate(sex = sample(sex, nrow(penguins_samp1), replace = FALSE))
+  penguins_reassigned <- penguins_samp2 %>%
+    mutate(sex = sample(sex, nrow(penguins_samp2), replace = FALSE))
   
   fem_avg <- penguins_reassigned %>%
     filter(sex == "female") %>%
@@ -274,13 +274,13 @@ bootstrapped_p_value
 
 ::: {.cell-output .cell-output-stdout}
 ```
-[1] 0.908
+[1] 0
 ```
 :::
 :::
 
 
-The Bootstrapped $p$-value above indicates that our difference in average flipper lengths, where `sex` was a meaningful variable was not an outlier in the distribution of differences where `sex` was a truly meaningless variable. That is, there is no evidence here to suggest a difference in mean flipper lengths across the two sexes of penguin.
+The Bootstrapped $p$-value above indicates that our difference in average flipper lengths, where `sex` was a meaningful variable was an *extreme* outlier in the distribution of differences where `sex` was a truly meaningless variable. That is, there is evidence here to suggest a difference in mean flipper lengths across the two sexes of penguin.
 
 ***
 
@@ -291,7 +291,7 @@ The Bootstrapped $p$-value above indicates that our difference in average flippe
 + Decide how you can adjust the code above to test your question using bootstrapping methods.
 + Conduct your analysis. Does the bootstrapping analysis support your hypothesis?
 + Be sure your analysis is well documented and described in your notebook. Envision your notebook as your methodology that you're sharing with the scientific community. 
-+ Publish your completed notebook to GitHub.
++ Use the `Pull -> Commit -> Push` workflow to publish your completed notebook to GitHub.
 
 
 
